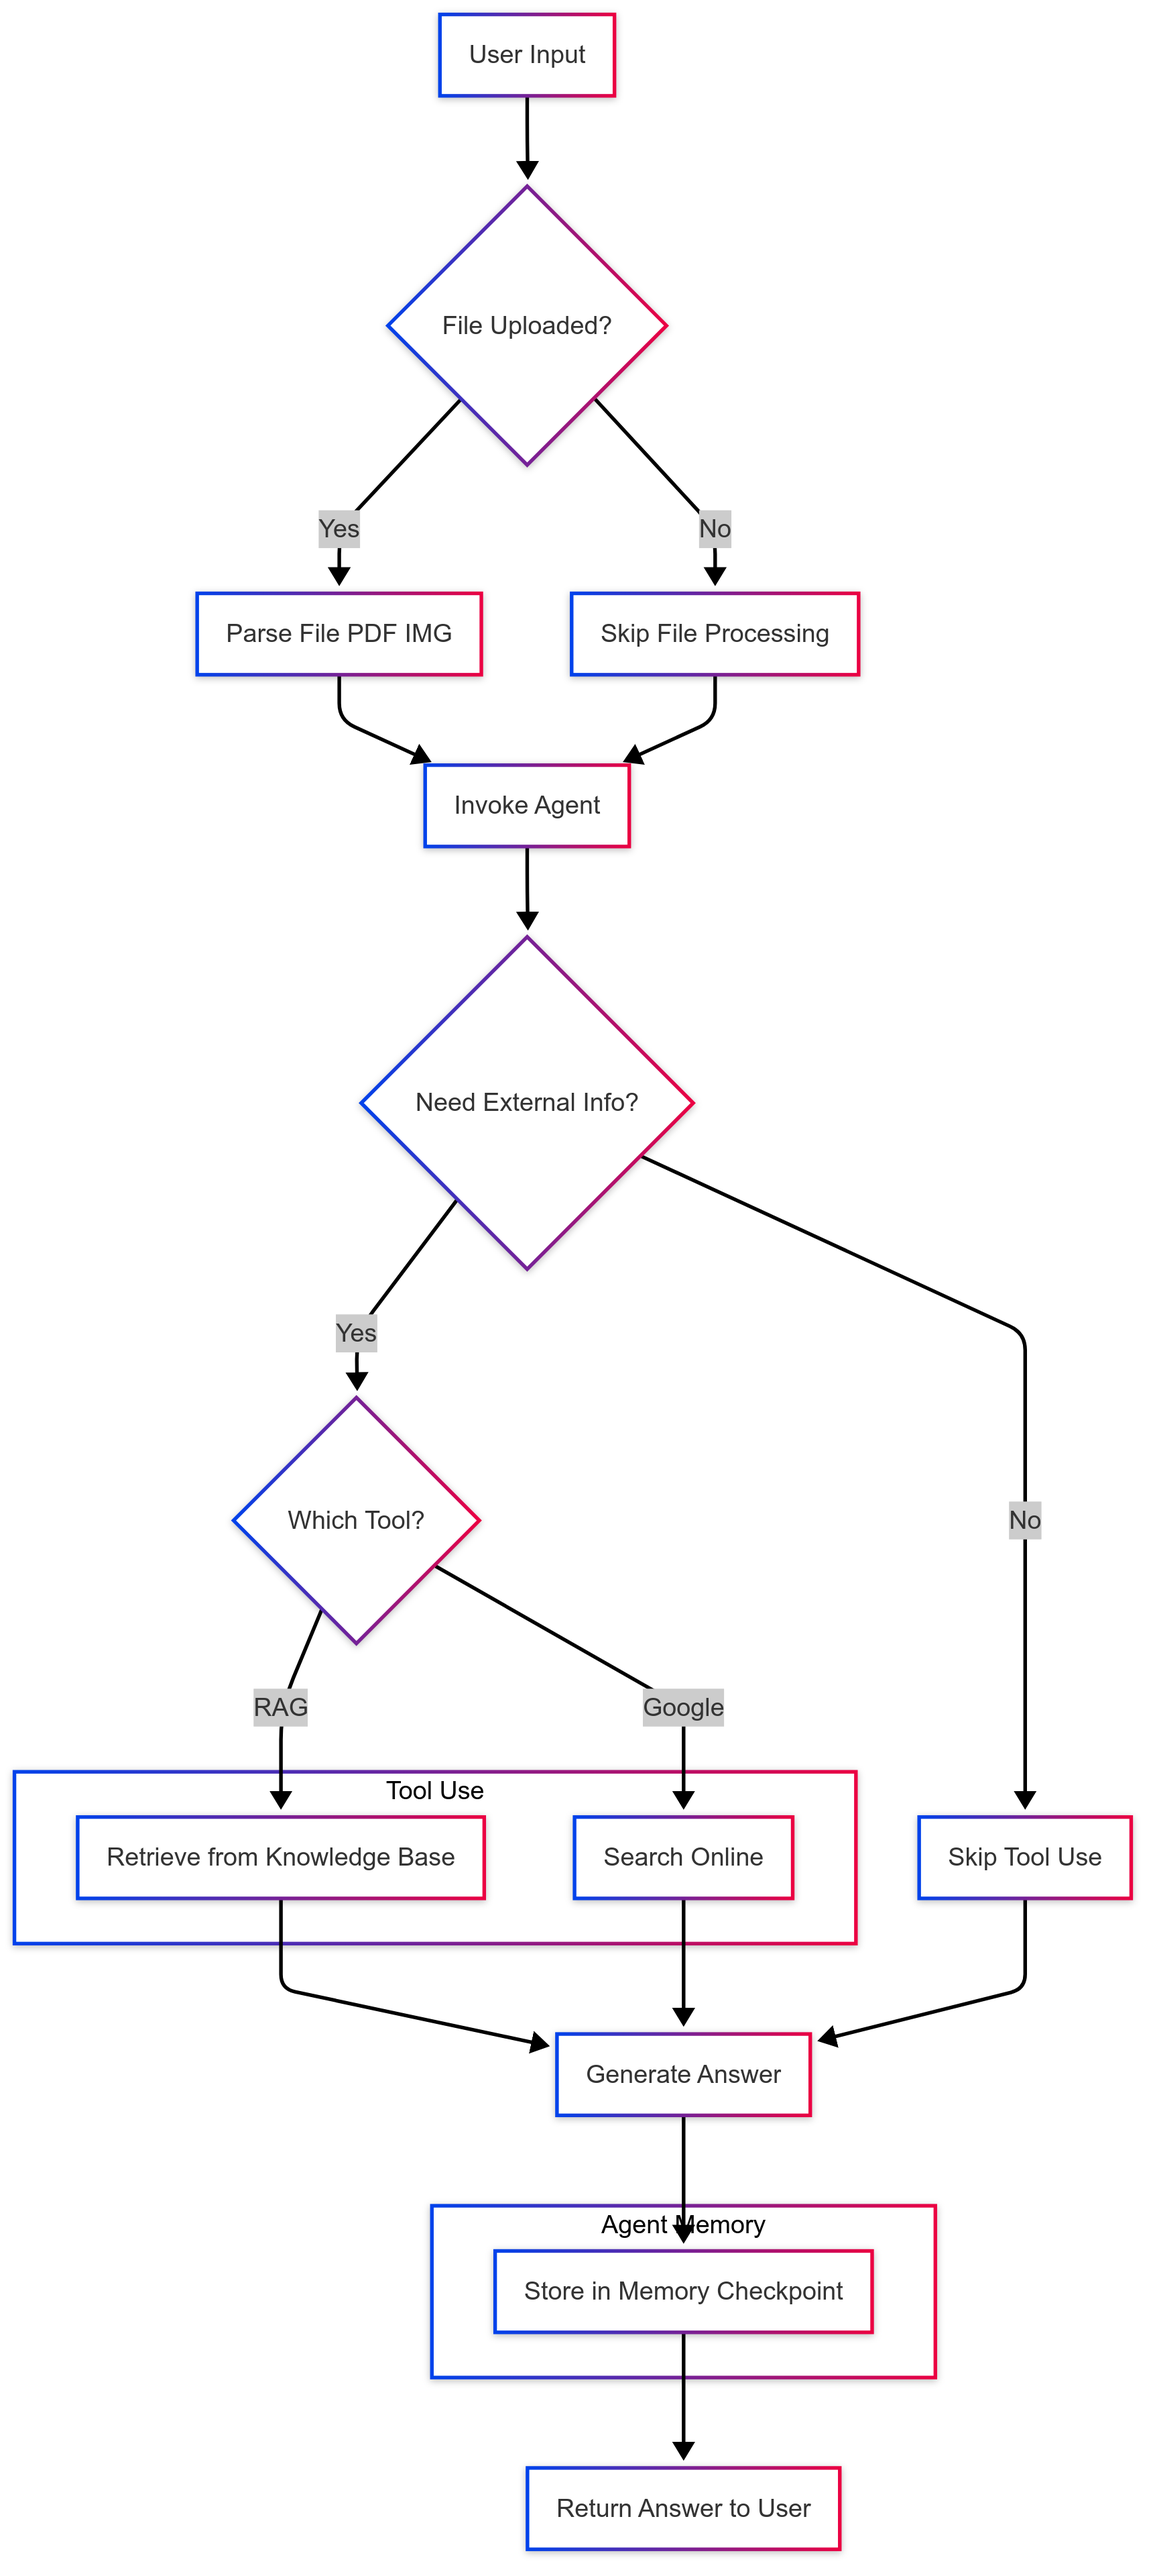
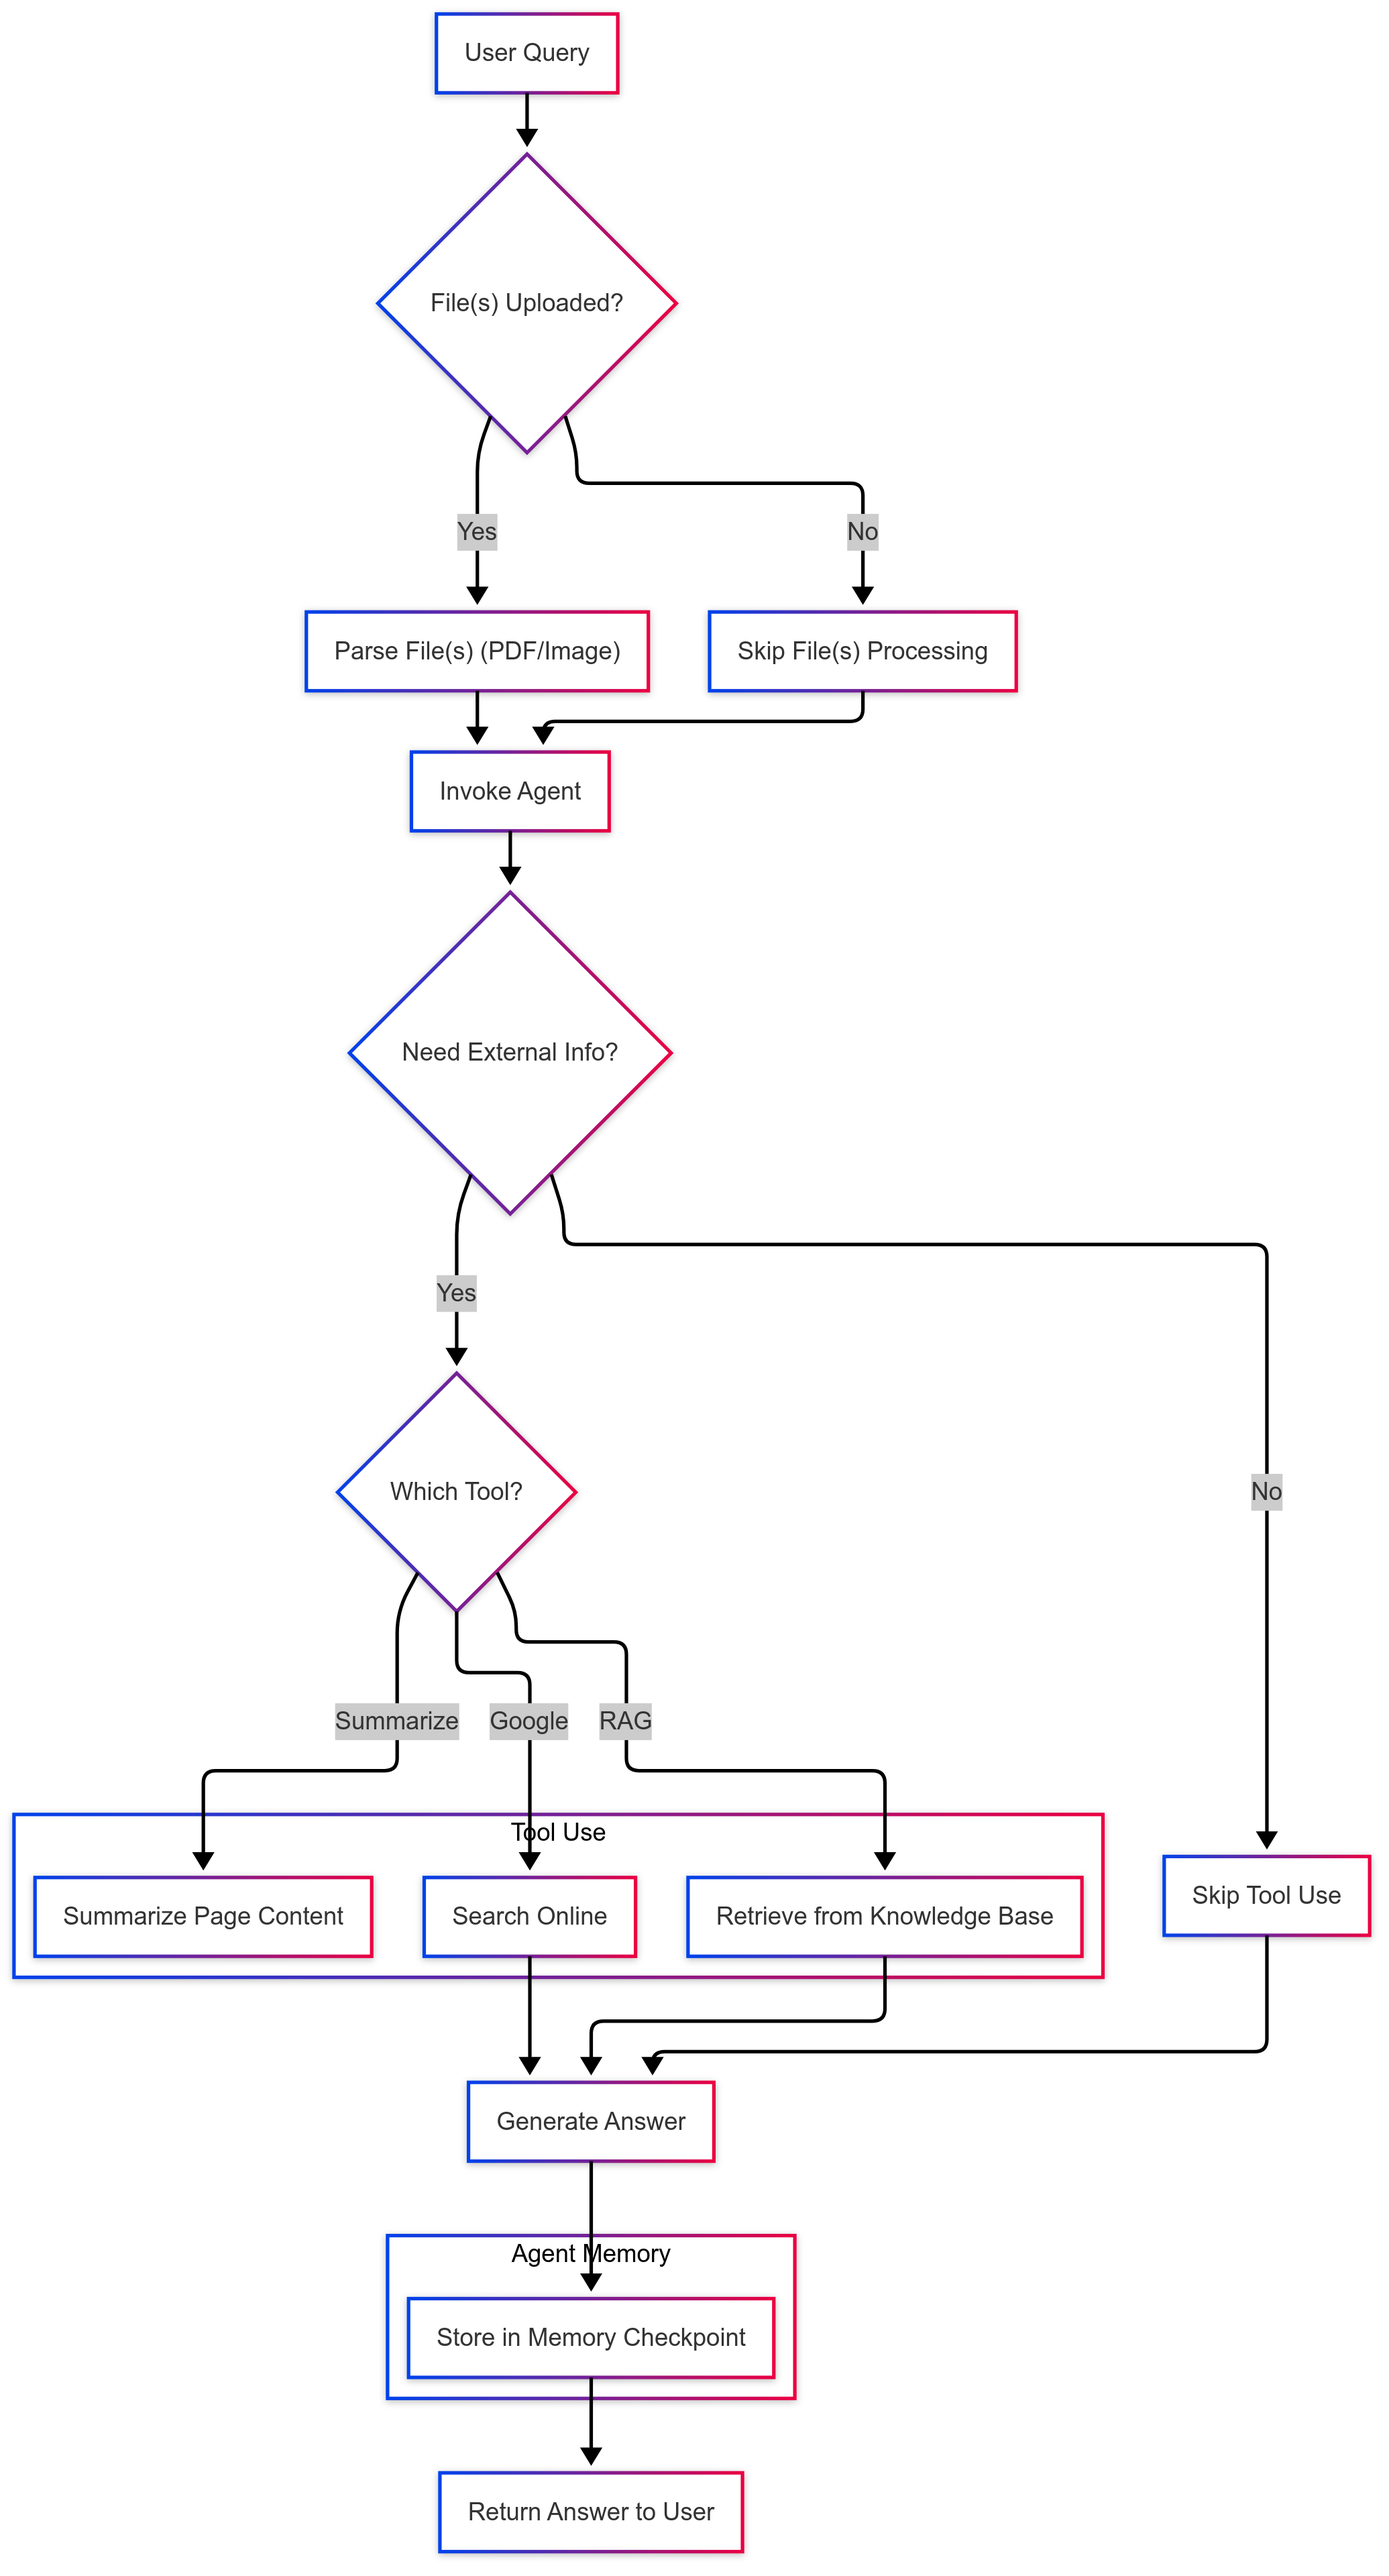
added resource monitoring

diff --git a/templates/index.html b/templates/index.html
@@ -7,6 +7,12 @@
     <script src="https://cdn.jsdelivr.net/npm/marked/marked.min.js"></script>
 </head>
 <body>
+    <div id="metricsPanel">
+                <strong>📊 Ressources système</strong><br>
+                CPU: <span id="cpuUsage">--</span>% |
+                RAM: <span id="memUsage">--</span>% (<span id="memUsed">--</span> MB / <span id="memTotal">--</span> MB) |
+                GPU: <span id="gpuName">--</span> (<span id="gpuUsed">--</span> MB / <span id="gpuTotal">--</span> MB)
+    </div>
     <div class="container">
         <div class="header">
             <h1>🧾 Agent Factures</h1>
@@ -16,28 +22,16 @@
             <!-- Sidebar with query suggestions -->
             <div class="sidebar">
                 <div class="sidebar-title">Suggestions rapides</div>
-                <div class="example-question" onclick="setQuery('Extraire les détails de toutes les factures')">📄 Extraire les détails</div>
-                <div class="example-question" onclick="setQuery('Vérifier la cohérence des documents')">✅ Vérifier la cohérence</div>
-<<<<<<< HEAD
-                <div class="example-question" onclick="setQuery('Comparer les factures uploadées')">📊 Comparer les factures</div>
-                <div class="example-question" onclick="setQuery('Créer un résumé Excel')">📈 Résumé Excel</div>
-=======
-                <div class="example-question" onclick="setQuery('Comparer les factures mises en ligne')">📊 Comparer les factures</div>
->>>>>>> nim_version
+                <div class="example-question" onclick="setQuery('Extraire les détails de toutes les factures fournies')">📄 Extraire les détails</div>
+                <div class="example-question" onclick="setQuery('Vérifier la cohérence des documents fournis')">✅ Vérifier la cohérence</div>
+                <div class="example-question" onclick="setQuery('Comparer les factures fournies')">📊 Comparer les factures</div>
                 
                 <!-- Batch processing info -->
                 <div style="margin-top: 20px; padding: 10px; background: #e8f4fd; border-radius: 6px; font-size: 12px;">
                     <strong>Traitement par lot:</strong><br>
-<<<<<<< HEAD
-                    • Max 5 fichiers<br>
-                    • Max 3 images<br>
-                    • 50MB total<br>
-                    • PDF, JPG, PNG supportés
-=======
                     • Max 5 fichiers (pdf, images)<br>
                     • Max 3 images (jpg, jpeg, png, webp, bmp)<br>
                     • 50MB total (10MB par fichier)<br>
->>>>>>> nim_version
                 </div>
             </div>
             <!-- Chat area -->
@@ -107,10 +101,6 @@
             // Trigger the updateButtonState function from fetch_response.js
             if (typeof updateButtonState === 'function') {
                 updateButtonState();
-            }
-            // Hide empty state
-            if (typeof hideEmptyState === 'function') {
-                hideEmptyState();
             }
         }
         

diff --git a/static/js/fetch_response.js b/static/js/fetch_response.js
@@ -20,11 +20,38 @@ previewContainer.innerHTML = "";
 window.addEventListener("DOMContentLoaded", updateButtonState);
 
 /********* Functions *********/
+async function updateMetrics() {
+    try {
+        const res = await fetch("/metrics");
+        if (!res.ok) return;
+
+        const data = await res.json();
+        document.getElementById("cpuUsage").textContent = data.cpu.toFixed(1);
+        document.getElementById("memUsage").textContent = data.memory.percent.toFixed(1);
+        document.getElementById("memUsed").textContent = data.memory.used;
+        document.getElementById("memTotal").textContent = data.memory.total;
+        
+        if (data.gpu) {
+            document.getElementById("gpuName").textContent = data.gpu.name;
+            document.getElementById("gpuUsed").textContent = data.gpu.used.toFixed(1);
+            document.getElementById("gpuTotal").textContent = data.gpu.total;
+        }
+        
+    } catch (err) {
+        console.error("Metrics fetch failed:", err);
+    }
+}
+
+// Poll every 2 seconds
+setInterval(updateMetrics, 1000);
+
+// Load immediately on page open
+updateMetrics();
+
 function setQuery(text) {
     query.value = text;
     query.focus();
     updateButtonState();
-    hideEmptyState();
 }
 
 function hideEmptyState() {
@@ -50,11 +77,7 @@ function formatFileSize(bytes) {
 }
 
 function isImageFile(filename) {
-<<<<<<< HEAD
-    const imageExtensions = ['jpg', 'jpeg', 'png', 'webp', 'gif', 'bmp'];
-=======
     const imageExtensions = ['jpg', 'jpeg', 'png', 'webp', 'bmp'];
->>>>>>> nim_version
     const extension = filename.split('.').pop().toLowerCase();
     return imageExtensions.includes(extension);
 }

diff --git a/static/css/style.css b/static/css/style.css
@@ -7,6 +7,20 @@ body, html {
     color: #333;
 }
 
+#metricsPanel {
+    position: fixed;       /* floats above content */
+    top: 20px;             /* distance from top of viewport */
+    right: 20px;           /* distance from right edge */
+    background: rgba(245,245,245,0.95); /* semi-transparent */
+    padding: 12px 16px;
+    border-radius: 8px;
+    box-shadow: 0 4px 12px rgba(0,0,0,0.15);
+    font-size: 14px;
+    color: #333;
+    z-index: 9999;         /* above everything */
+    width: 180px;
+}
+
 .container {
     padding: 20px;
     max-width: 1000px;

diff --git a/backend/routes.py b/backend/routes.py
@@ -10,6 +10,12 @@ from agent.agentic import user_agent_multiturn
 from core.utils import encode_pdf_from_stream, encode_image_bytes
 from config import SAVE_INVOICES_DIR
 
+import pynvml
+import psutil
+
+pynvml.nvmlInit()
+handle = pynvml.nvmlDeviceGetHandleByIndex(0)
+
 
 # ============================================================
 # Blueprint & Config
@@ -55,7 +61,8 @@ def build_system_prompt():
         "LA FISCALITÉ FRANÇAISE ET LA FACTURE ÉLECTRONIQUE!**\n\n"
         "Si vous traitez une facture et qu'on vous demande d'extraire ses informations, "
         "vérifiez si l'utilisateur souhaite sauvegarder les détails dans un fichier Excel. "
-        "Puis, ne retournez que le lien du téléchargement après confirmation de l'utilisateur.\n\n"
+        "Si vous traiter plusieurs factures, demander à l'utilisateur s'il souhaite sauvegarde chacune dans des fichiers Excel séparés. "
+        "Puis, ne retournez que le(s) lien(s) du téléchargement après confirmation de l'utilisateur.\n\n"
         "Si vous cherchez une information dans une base des connaissances, retournez un résumé "
         "des informations pertinentes.\n\n"
         "Si l'utilisateur envoie 'bonjour' ou 'test', répondez poliment et indiquez votre mission.\n\n"
@@ -79,7 +86,7 @@ def index():
 
 
 @main_routes.route("/chat", methods=["POST"])
-def chat():
+async def chat():
     """Main chat endpoint: handles queries + file uploads."""
     # Ensure session
     if "thread_id" not in session:
@@ -165,7 +172,7 @@ def chat():
     # Invoke Agent
     # --------------------------------------------------------
     try:
-        response = user_agent_multiturn(
+        response = await user_agent_multiturn(
             query,
             processed_files if processed_files else None,
             session["thread_id"],
@@ -193,4 +200,27 @@ def chat():
 def download_excel(filename):
     """Download saved invoice Excel file."""
     return send_from_directory(SAVE_INVOICES_DIR, filename, as_attachment=True)
+
+@main_routes.route("/metrics")
+def metrics():
+    # CPU usage
+    cpu = psutil.cpu_percent(interval=0.5)
+    
+    memory = {
+        "percent": psutil.virtual_memory().percent,
+        "used": psutil.virtual_memory().used // (1024**2),
+        "total": psutil.virtual_memory().total // (1024**2)
+    }
+
+    gpu = {
+        "name": pynvml.nvmlDeviceGetName(handle),
+        "used": pynvml.nvmlDeviceGetMemoryInfo(handle).used / 1024**2,
+        "total": pynvml.nvmlDeviceGetMemoryInfo(handle).total / 1024**2
+    }
+
+    return jsonify({
+        "cpu": cpu,
+        "memory": memory,
+        'gpu': gpu
+    })
 

diff --git a/agent/agentic.py b/agent/agentic.py
@@ -28,7 +28,8 @@ registered_tools = [
     rag_management_rules,
     rag_usage_cases,
     extract_products_and_services,
-    save_to_excel
+    save_to_excel,
+    sandbox_tool
 ]
 
 def build_graph(memory: InMemorySaver):
@@ -50,7 +51,7 @@ memory = InMemorySaver()
 agent_app = build_graph(memory)
 logger.info("Agent started!")
         
-def user_agent_multiturn(query: str, processed_files: Optional[List[Dict[str, Any]]] = None, thread_id: str = "1", messages_to_invoke: Optional[List] = None):
+async def user_agent_multiturn(query: str, processed_files: Optional[List[Dict[str, Any]]] = None, thread_id: str = "1", messages_to_invoke: Optional[List] = None):
     
     config = {
         "configurable": {"thread_id": thread_id},
@@ -59,7 +60,8 @@ def user_agent_multiturn(query: str, processed_files: Optional[List[Dict[str, An
     logging.info("Thread ID for conversation: %s", thread_id)
     
     try:
-        result = agent_app.invoke({"messages": messages_to_invoke}, config)
+        result = await agent_app.ainvoke({"messages": messages_to_invoke}, config)
+        print(result)
         
         # Log the conversation for debugging
         logger.info("Agent response generated successfully")

diff --git a/agent/tools.py b/agent/tools.py
@@ -7,6 +7,8 @@ from langchain.chains import RetrievalQA
 from langchain_chroma import Chroma
 from langchain_huggingface import HuggingFaceEmbeddings
 
+from langchain_experimental.utilities import PythonREPL
+
 from langchain_core.tools import tool
 
 from core.utils import get_google_api_keys
@@ -190,3 +192,14 @@ def save_to_excel(data: dict, output_dir=SAVE_INVOICES_DIR, filename_prefix="fac
     
     return f"Fichier crée avec success!\nTélécharger ici: {download_url}"
     
+#********************************************************************#
+# Sandbox tool
+#********************************************************************#
+python_repl = PythonREPL()
+
+@tool("sandbox_tool", return_direct=False)
+def sandbox_tool(command: str) -> str:
+    """A Python shell. Use this to execute Python commands (i.e. arithmetic operations). 
+    Input should be a valid Python command. If you want to see 
+    the output of a value, you should print it out with `print(...)`."""
+    return python_repl.run(command)
